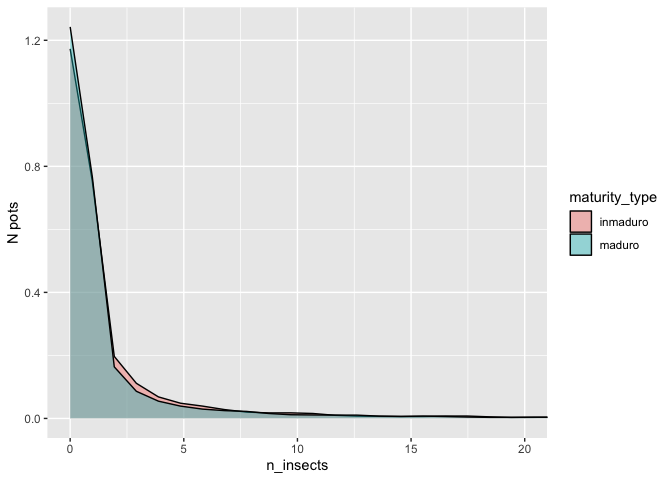
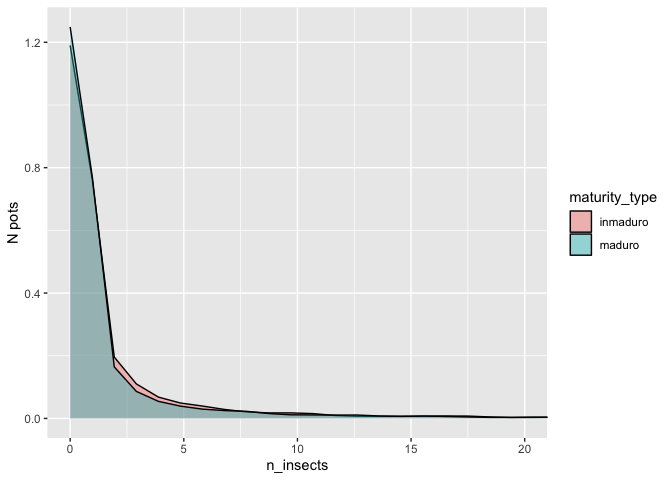
models including all morpho sp

diff --git a/code/exploration/37_insect-rearing-data.md b/code/exploration/37_insect-rearing-data.md
@@ -143,8 +143,7 @@ insects_by_pot <-
 data_join <-
   data_seed |> 
   left_join(insects_by_pot, by = join_by("pot_id" == "seed_pot")) |> 
-  mutate(n_insects = replace_na(n_insects, 0)) |> 
-  filter(nr_equ_seeds > 0) 
+  mutate(n_insects = replace_na(n_insects, 0)) 
 
 data_join |> 
   ggplot(aes(x = n_insects, fill = maturity_type)) +
@@ -171,16 +170,123 @@ data_join |>
     ## # A tibble: 2 × 6
     ##   maturity_type sum_seeds n_insects sum_fruits seed_emergence_rate
     ##   <chr>             <dbl>     <dbl>      <dbl>               <dbl>
-    ## 1 inmaduro       1368844.      9329     100604             0.00682
-    ## 2 maduro          580245.     13266      39280             0.0229 
+    ## 1 inmaduro       1368844.     10481     112791             0.00766
+    ## 2 maduro          580245.     13474      42300             0.0232 
     ##   fruit_emergence_rate
     ##                  <dbl>
-    ## 1               0.0927
-    ## 2               0.338
+    ## 1               0.0929
+    ## 2               0.319
 
 Emergence rate is higher for mature material, this would mean 0.02
 insects emerged per mature seed on average vs 0.007 per immature seed
 and 0.33 per mature fruit vs 0.09 per immature fruit.
+
+Try fitting a model to account for differences in sampling effort and
+species.
+
+## Fruits only
+
+``` r
+data_fit <- data_join %>%
+  mutate(
+    maturity_type = factor(maturity_type),
+    maturity_type = relevel(maturity_type, ref = "maduro")
+  )
+
+mfruit <- glmmTMB(
+  n_insects ~ maturity_type +
+    offset(log(nr_fruits)) +
+    (1 | codigo),
+  family = nbinom2,
+  data = filter(data_fit, nr_fruits > 0)
+)
+
+summary(mfruit)
+```
+
+    ##  Family: nbinom2  ( log )
+    ## Formula:          
+    ## n_insects ~ maturity_type + offset(log(nr_fruits)) + (1 | codigo)
+    ## Data: filter(data_fit, nr_fruits > 0)
+    ## 
+    ##       AIC       BIC    logLik -2*log(L)  df.resid 
+    ##   18959.4   18986.6   -9475.7   18951.4      6591 
+    ## 
+    ## Random effects:
+    ## 
+    ## Conditional model:
+    ##  Groups Name        Variance Std.Dev.
+    ##  codigo (Intercept) 5.461    2.337   
+    ## Number of obs: 6595, groups:  codigo, 451
+    ## 
+    ## Dispersion parameter for nbinom2 family (): 0.237 
+    ## 
+    ## Conditional model:
+    ##                       Estimate Std. Error z value Pr(>|z|)    
+    ## (Intercept)           -2.60759    0.15781  -16.52  < 2e-16 ***
+    ## maturity_typeinmaduro -0.50679    0.08096   -6.26 3.85e-10 ***
+    ## ---
+    ## Signif. codes:  0 '***' 0.001 '**' 0.01 '*' 0.05 '.' 0.1 ' ' 1
+
+``` r
+exp(confint(mfruit, parm = "maturity_typeinmaduro"))
+```
+
+    ##                           2.5 %    97.5 %  Estimate
+    ## maturity_typeinmaduro 0.5140348 0.7060107 0.6024235
+
+The fitted insect emergence rate per fruit in immature material is about
+40% lower than in mature fruits.
+
+## Estimated seeds
+
+``` r
+mseeds <- glmmTMB(
+  n_insects ~ maturity_type +
+    offset(log(nr_equ_seeds)) +
+    (1 | codigo),
+  family = nbinom2,
+  data = drop_na(data_fit, seeds_per_fruit)
+)
+
+summary(mseeds)
+```
+
+    ##  Family: nbinom2  ( log )
+    ## Formula:          n_insects ~ maturity_type + offset(log(nr_equ_seeds)) + (1 |  
+    ##     codigo)
+    ## Data: drop_na(data_fit, seeds_per_fruit)
+    ## 
+    ##       AIC       BIC    logLik -2*log(L)  df.resid 
+    ##   22192.2   22220.5  -11092.1   22184.2      8670 
+    ## 
+    ## Random effects:
+    ## 
+    ## Conditional model:
+    ##  Groups Name        Variance Std.Dev.
+    ##  codigo (Intercept) 5.305    2.303   
+    ## Number of obs: 8674, groups:  codigo, 359
+    ## 
+    ## Dispersion parameter for nbinom2 family (): 0.237 
+    ## 
+    ## Conditional model:
+    ##                       Estimate Std. Error z value Pr(>|z|)    
+    ## (Intercept)           -3.91314    0.15581 -25.115  < 2e-16 ***
+    ## maturity_typeinmaduro -0.40548    0.06987  -5.804 6.49e-09 ***
+    ## ---
+    ## Signif. codes:  0 '***' 0.001 '**' 0.01 '*' 0.05 '.' 0.1 ' ' 1
+
+``` r
+exp(confint(mseeds, parm = "maturity_typeinmaduro"))
+```
+
+    ##                           2.5 %    97.5 %  Estimate
+    ## maturity_typeinmaduro 0.5813382 0.7644903 0.6666539
+
+The fitted insect emergence rate per seed in immature material is about
+33% lower than in mature fruits.
+
+## Seed predators only, fruits only
 
 Try restricting to only seed predators:
 
@@ -221,9 +327,6 @@ data_join_seedpreds |>
     ## 1               0.0412
     ## 2               0.171
 
-Try fitting a model to account for differences in sampling effort and
-species.
-
 First for fruits only:
 
 ``` r
@@ -233,7 +336,7 @@ data_fit <- data_join_seedpreds %>%
     maturity_type = relevel(maturity_type, ref = "maduro")
   )
 
-mfruit <- glmmTMB(
+mfruit_sp <- glmmTMB(
   n_insects ~ maturity_type +
     offset(log(nr_fruits)) +
     (1 | codigo),
@@ -241,7 +344,7 @@ mfruit <- glmmTMB(
   data = filter(data_fit, nr_fruits > 0)
 )
 
-summary(mfruit)
+summary(mfruit_sp)
 ```
 
     ##  Family: nbinom2  ( log )
@@ -269,7 +372,7 @@ summary(mfruit)
     ## Signif. codes:  0 '***' 0.001 '**' 0.01 '*' 0.05 '.' 0.1 ' ' 1
 
 ``` r
-exp(confint(mfruit, parm = "maturity_typeinmaduro"))
+exp(confint(mfruit_sp, parm = "maturity_typeinmaduro"))
 ```
 
     ##                          2.5 %    97.5 %  Estimate
@@ -278,11 +381,13 @@ exp(confint(mfruit, parm = "maturity_typeinmaduro"))
 The fitted insect emergence rate per fruit in immature material is about
 52% lower than in mature fruits.
 
+## Seed predators only, estimated seeds
+
 Now including seeds plus the estimated seeds within fruits
 (nr_equ_seeds):
 
 ``` r
-m1 <- glmmTMB(
+mseeds_sp <- glmmTMB(
   n_insects ~ maturity_type +
     offset(log(nr_equ_seeds)) +
     (1 | codigo),
@@ -290,7 +395,7 @@ m1 <- glmmTMB(
   data = drop_na(data_fit, seeds_per_fruit)
 )
 
-summary(m1)
+summary(mseeds_sp)
 ```
 
     ##  Family: nbinom2  ( log )
@@ -318,7 +423,7 @@ summary(m1)
     ## Signif. codes:  0 '***' 0.001 '**' 0.01 '*' 0.05 '.' 0.1 ' ' 1
 
 ``` r
-exp(confint(m1, parm = "maturity_typeinmaduro"))
+exp(confint(mseeds_sp, parm = "maturity_typeinmaduro"))
 ```
 
     ##                           2.5 %    97.5 %  Estimate
@@ -328,9 +433,11 @@ The estimated insect emergence rate for immature material is 0.58 times
 the rate for mature material. i.e., the emergence rate is about 42%
 lower in immature material, and it’s a significant effect
 
+## Estimated seeds, only species with both maturity types
+
 ``` r
 data_seed %>%
-  filter(nr_equ_seeds > 0) |> # only pots containing seeds
+  filter(nr_equ_seeds > 0) |> 
   group_by(codigo) %>%
   summarise(
     n_maturity = n_distinct(maturity_type),
@@ -416,6 +523,8 @@ exp(confint(m_both, parm = "maturity_typeinmaduro"))
 This is similar to the previous model result: the estimated insect
 emergence rate for immature material is 0.58 times the rate for mature
 material.
+
+## Seeds with insect damage
 
 What about seeds which show signs of insect attack/ emergence holes?
 
